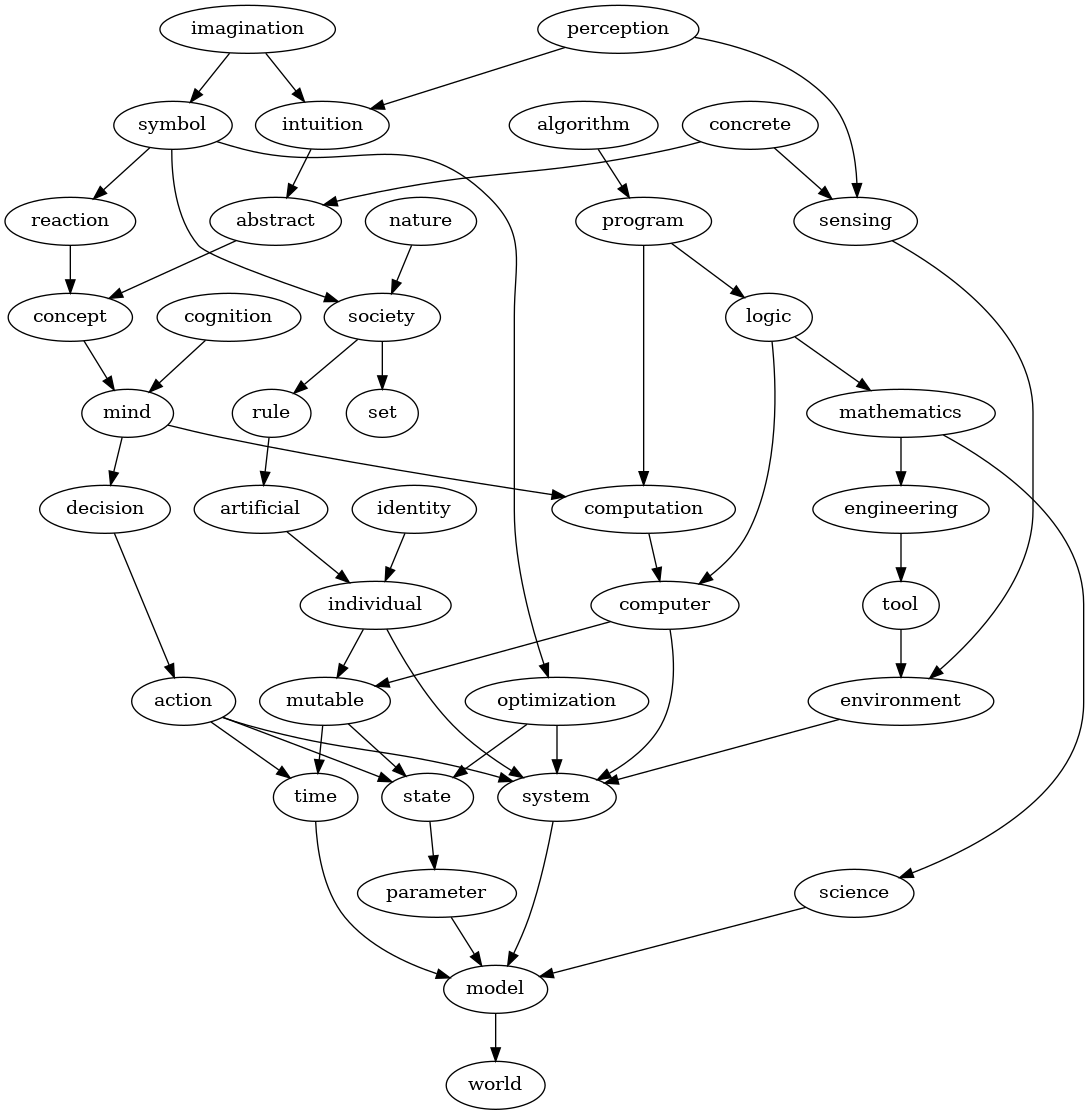
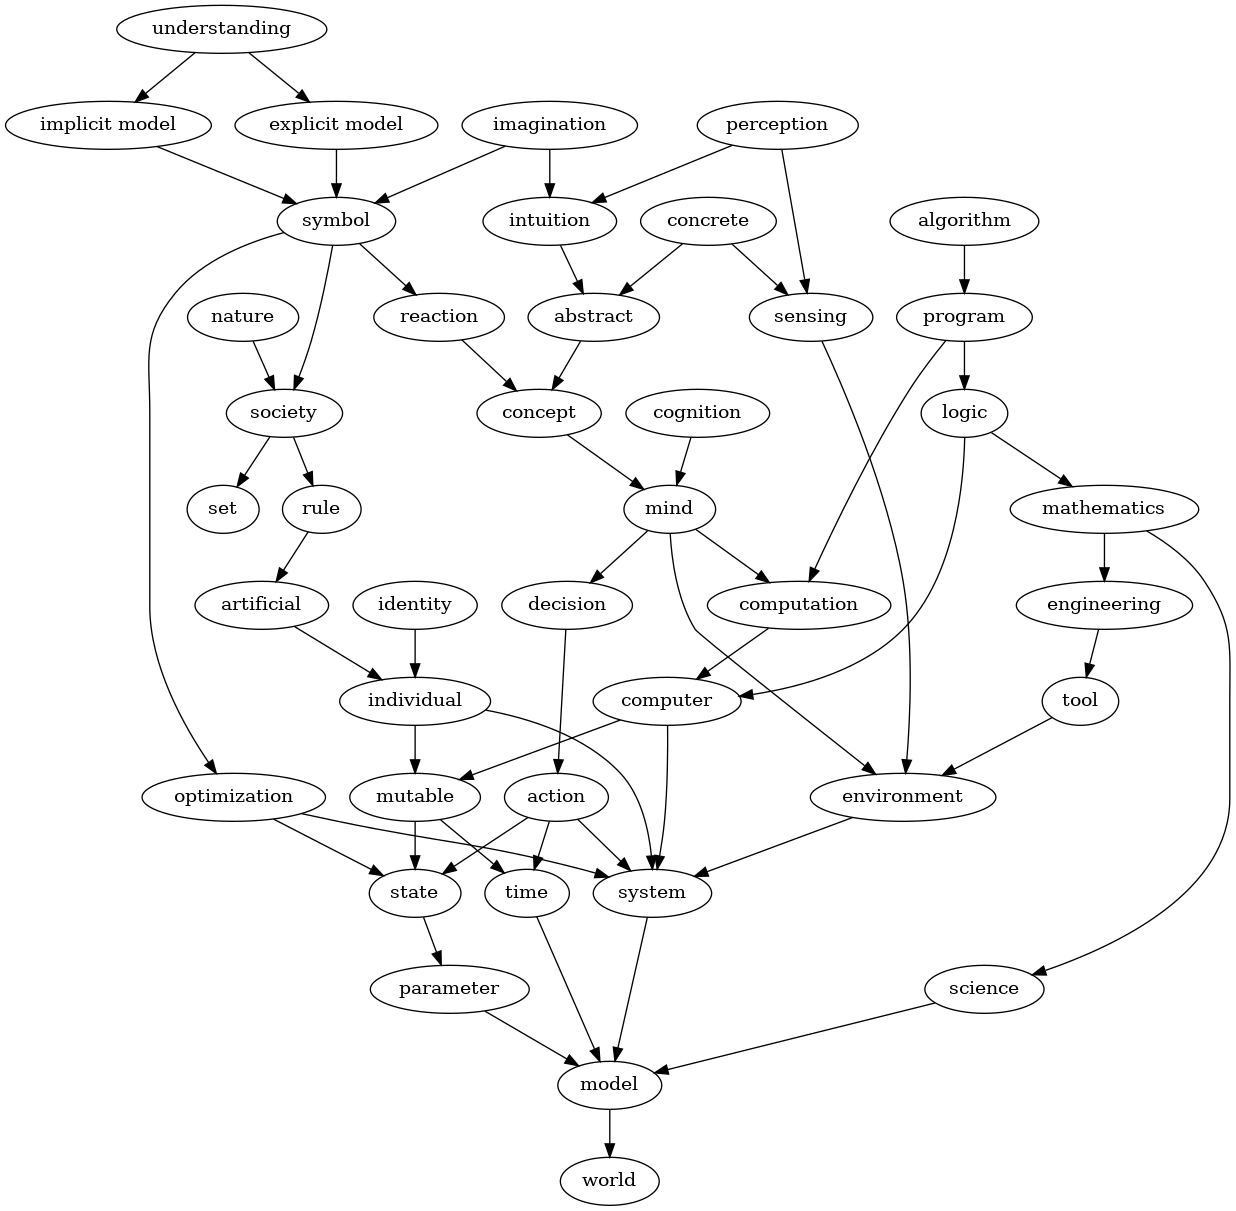
Update definitions

diff --git a/docs/2020-09-12-dictionary/index.html b/docs/2020-09-12-dictionary/index.html
@@ -79,7 +79,7 @@
 <div class="vanity-image-div">
 <p><a href="img/actions.jpg"><img src="img/actions.jpg" class="vanity-image-img" /></a></p>
 </div>
-<p><span id="vanity-6d696e64"></span><strong>mind</strong>: <span class="vanity-contents">The components of a <a href="#vanity-73797374656d" class="vanity-term-link">system</a> that make it more durable independently from its other properties. This tentative definition is meant to incorporate the dualist notion that the mind is separate from the rest of the body and somewhat optional, while emphasizing that it's only a simplified model useful for studying <a href="#vanity-6465636973696f6e" class="vanity-term-link">decision</a> <a href="#vanity-636f6d7075746174696f6e" class="vanity-term-link">processes</a>.</span></p>
+<p><span id="vanity-6d696e64"></span><strong>mind</strong>: <span class="vanity-contents">(1) The components of a <a href="#vanity-73797374656d" class="vanity-term-link">system</a> that make it more durable independently from its other properties. This tentative definition is meant to incorporate the dualist notion that the mind is separate from the rest of the body and somewhat optional, while emphasizing that it's only a simplified model useful for studying <a href="#vanity-6465636973696f6e" class="vanity-term-link">decision</a> <a href="#vanity-636f6d7075746174696f6e" class="vanity-term-link">processes</a>. (2) A self-improving <a href="#vanity-776f726c64" class="vanity-term-link">world</a> <a href="#vanity-6d6f64656c" class="vanity-term-link">model</a>. In this equivalent view, the mind continuously gathers information about the <a href="#vanity-656e7669726f6e6d656e74" class="vanity-term-link">environment</a> around the system and uses it to make better decisions.</span></p>
 <p><span id="vanity-636f676e6974696f6e"></span><strong>cognition</strong>: <span class="vanity-contents">The properties of a <a href="#vanity-6d696e64" class="vanity-term-link">mind</a>.</span></p>
 <p><span id="vanity-636f6e63657074"></span><strong>concept</strong>: <span class="vanity-contents">A binary state within a <a href="#vanity-6d696e64" class="vanity-term-link">mind</a>. A concept is generally considered to be turned on or off by the activity of the mind, including other concepts.</span></p>
 <p><span id="vanity-6162737472616374"></span><strong>abstract</strong>: <span class="vanity-contents">A <a href="#vanity-636f6e63657074" class="vanity-term-link">concept</a> is said more abstract than another when its full definition from elementary concepts is more complex.</span></p>
@@ -90,6 +90,9 @@
 <p><span id="vanity-6f7074696d697a6174696f6e"></span><strong>optimization</strong>: <span class="vanity-contents">An activity consisting in modifying a <a href="#vanity-73797374656d" class="vanity-term-link">system</a> so as to increase its fitness, which is a number, specifically an element taken from an ordered set. The goal function, objective function or fitness function is the function that maps a <a href="#vanity-7374617465" class="vanity-term-link">state</a> of a system to the number referred to as fitness.</span></p>
 <p><span id="vanity-73796d626f6c"></span><strong>symbol</strong>: <span class="vanity-contents">A conventional representation of a <a href="#vanity-636f6e63657074" class="vanity-term-link">concept</a>. It is a component of the <a href="#vanity-776f726c64" class="vanity-term-link">world</a> to which some members of a <a href="#vanity-736f6369657479" class="vanity-term-link">society</a> will <a href="#vanity-7265616374696f6e" class="vanity-term-link">react</a> in a similar manner and that does not provide <a href="#vanity-6f7074696d697a6174696f6e" class="vanity-term-link">benefits</a> other than eliciting similar reactions in others.</span></p>
 <p><span id="vanity-696d6167696e6174696f6e"></span><strong>imagination</strong>: <span class="vanity-contents">A form of <a href="#vanity-696e74756974696f6e" class="vanity-term-link">intuition</a>, generally involving <a href="#vanity-636f6e63657074" class="vanity-term-link">concepts</a> for which <a href="#vanity-73796d626f6c" class="vanity-term-link">symbols</a> already exist.</span></p>
+<p><span id="vanity-696d706c69636974206d6f64656c"></span><strong>implicit model</strong>: <span class="vanity-contents">A <a href="#vanity-6d6f64656c" class="vanity-term-link">model</a> implemented by a <a href="#vanity-6d696e64" class="vanity-term-link">mind</a>. A mind makes <a href="#vanity-6465636973696f6e" class="vanity-term-link">decisions</a> at least partially by relying on an internal structure of the <a href="#vanity-73797374656d" class="vanity-term-link">system</a>, without relying on a <a href="#vanity-73796d626f6c" class="vanity-term-link">symbolism</a> or language that makes it transferable to other <a href="#vanity-696e646976696475616c" class="vanity-term-link">individuals</a>. This internal structure is considered an implicit world model.</span></p>
+<p><span id="vanity-6578706c69636974206d6f64656c"></span><strong>explicit model</strong>: <span class="vanity-contents">A <a href="#vanity-6d6f64656c" class="vanity-term-link">model</a> transferable by a <a href="#vanity-73797374656d" class="vanity-term-link">system</a> to another system using <a href="#vanity-73796d626f6c" class="vanity-term-link">symbols</a> forming a language.</span></p>
+<p><span id="vanity-756e6465727374616e64696e67"></span><strong>understanding</strong>: <span class="vanity-contents">A measure of how much a <a href="#vanity-6d696e64" class="vanity-term-link">mind</a> reproduces - <a href="#vanity-696d706c69636974206d6f64656c" class="vanity-term-link">implicitly</a> or <a href="#vanity-6578706c69636974206d6f64656c" class="vanity-term-link">explicitly</a> - some external <a href="#vanity-6d6f64656c" class="vanity-term-link">model</a>.</span></p>
 <p><span id="dag"></span> <a href="img/glossary-deps.png"><img src="img/glossary-deps.png" title="Graph showing the dependencies between definitions of this glossary." /></a></p>
 <p class="menu footer">
   <a href="https://twitter.com/mjambon">@mjambon</a> 2020-09-12<br/>

diff --git a/src/2020-09-12-dictionary/index.md b/src/2020-09-12-dictionary/index.md
@@ -272,15 +272,19 @@ mutually exclusive. ]{.vanity-contents}
 [![](img/actions.jpg){.vanity-image-img}](img/actions.jpg)
 :::
 
-[]{#vanity-6d696e64}**mind**: [The components of a
+[]{#vanity-6d696e64}**mind**: [(1) The components of a
 [system](#vanity-73797374656d){.vanity-term-link} that make it more
 durable independently from its other properties. This tentative
 definition is meant to incorporate the dualist notion that the mind is
 separate from the rest of the body and somewhat optional, while
 emphasizing that it\'s only a simplified model useful for studying
 [decision](#vanity-6465636973696f6e){.vanity-term-link}
-[processes](#vanity-636f6d7075746174696f6e){.vanity-term-link}.
-]{.vanity-contents}
+[processes](#vanity-636f6d7075746174696f6e){.vanity-term-link}. (2) A
+self-improving [world](#vanity-776f726c64){.vanity-term-link}
+[model](#vanity-6d6f64656c){.vanity-term-link}. In this equivalent view,
+the mind continuously gathers information about the
+[environment](#vanity-656e7669726f6e6d656e74){.vanity-term-link} around
+the system and uses it to make better decisions. ]{.vanity-contents}
 
 []{#vanity-636f676e6974696f6e}**cognition**: [The properties of a
 [mind](#vanity-6d696e64){.vanity-term-link}. ]{.vanity-contents}
@@ -344,6 +348,31 @@ than eliciting similar reactions in others. ]{.vanity-contents}
 [intuition](#vanity-696e74756974696f6e){.vanity-term-link}, generally
 involving [concepts](#vanity-636f6e63657074){.vanity-term-link} for
 which [symbols](#vanity-73796d626f6c){.vanity-term-link} already exist.
+]{.vanity-contents}
+
+[]{#vanity-696d706c69636974206d6f64656c}**implicit model**: [A
+[model](#vanity-6d6f64656c){.vanity-term-link} implemented by a
+[mind](#vanity-6d696e64){.vanity-term-link}. A mind makes
+[decisions](#vanity-6465636973696f6e){.vanity-term-link} at least
+partially by relying on an internal structure of the
+[system](#vanity-73797374656d){.vanity-term-link}, without relying on a
+[symbolism](#vanity-73796d626f6c){.vanity-term-link} or language that
+makes it transferable to other
+[individuals](#vanity-696e646976696475616c){.vanity-term-link}. This
+internal structure is considered an implicit world model.
+]{.vanity-contents}
+
+[]{#vanity-6578706c69636974206d6f64656c}**explicit model**: [A
+[model](#vanity-6d6f64656c){.vanity-term-link} transferable by a
+[system](#vanity-73797374656d){.vanity-term-link} to another system
+using [symbols](#vanity-73796d626f6c){.vanity-term-link} forming a
+language. ]{.vanity-contents}
+
+[]{#vanity-756e6465727374616e64696e67}**understanding**: [A measure of
+how much a [mind](#vanity-6d696e64){.vanity-term-link} reproduces -
+[implicitly](#vanity-696d706c69636974206d6f64656c){.vanity-term-link} or
+[explicitly](#vanity-6578706c69636974206d6f64656c){.vanity-term-link} -
+some external [model](#vanity-6d6f64656c){.vanity-term-link}.
 ]{.vanity-contents}
 
 []{#dag}
